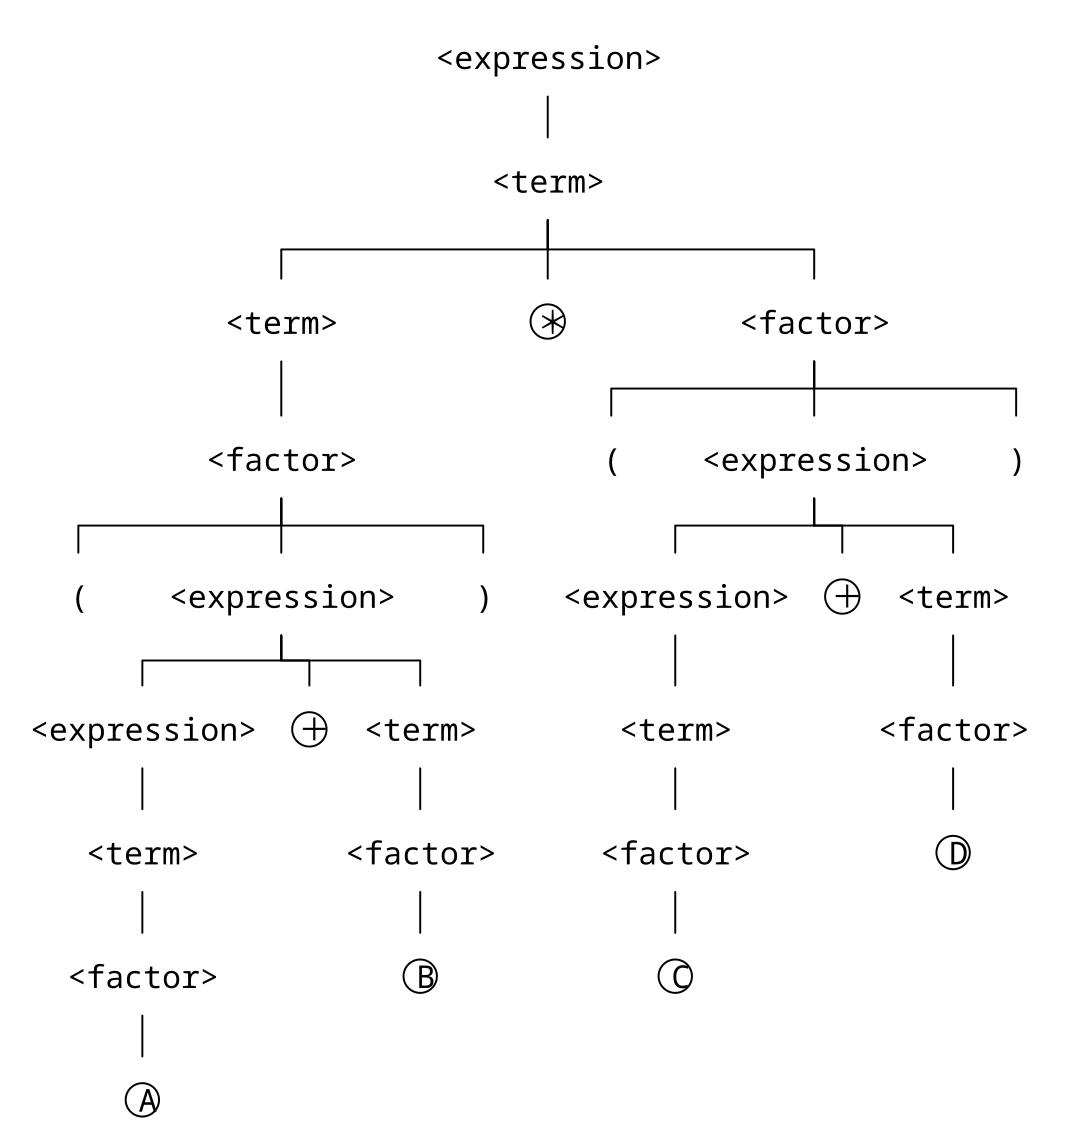
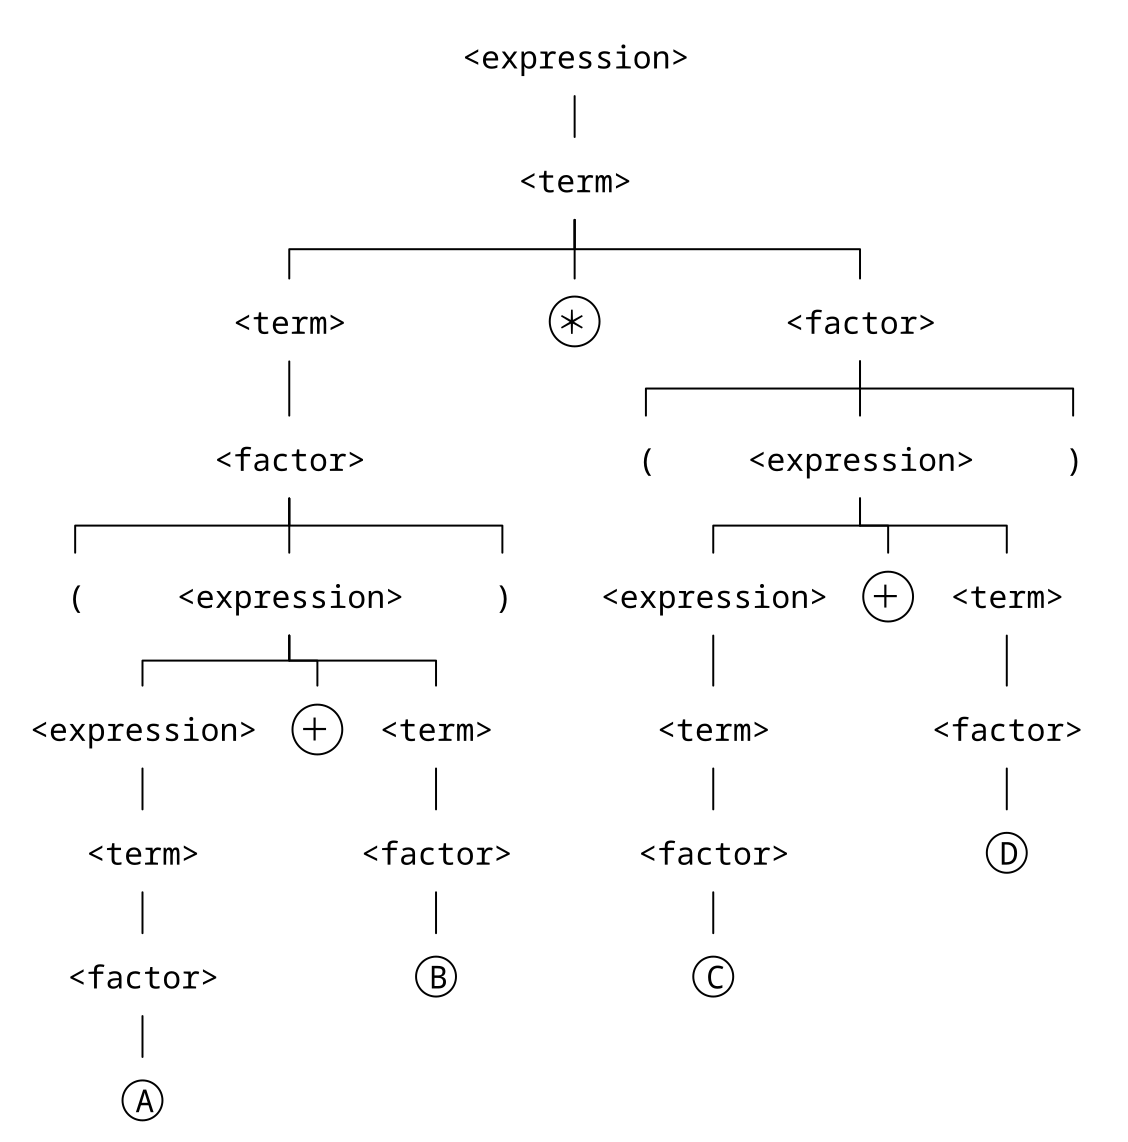
Give a circled character room for its corners
Sizing the enclosure from the ink made the boxes right but the circles too
tight: a letter that fits a square of that side pokes out of the circle drawn
inside it, which is what gallery example 023 showed — every circled letter
touching or crossing its ring. A single character in a circle now gets the
diagonal of its ink box rather than its height. Longer text sits in a stadium,
whose rounded ends already leave the corners room.

diff --git a/lib/rsyntaxtree/element.rb b/lib/rsyntaxtree/element.rb
@@ -153,7 +153,17 @@ module RSyntaxTree
               if ink.ink_height.to_f.positive?
                 above = [ink.ink_above, standard_metrics.ink_above].max
                 below = [ink.ink_height - ink.ink_above, standard_metrics.ink_height - standard_metrics.ink_above].max
-                e[:enc_height] = above + below + padding * 2
+                span = above + below
+                # A circle around a single character has to clear the corners of
+                # the glyph, not just its height: a letter that fits a square of
+                # this side pokes out of the circle drawn inside it. Take the
+                # diagonal. Longer text sits in a stadium, whose rounded ends
+                # already leave the corners room, so height alone will do.
+                if e[:decoration].include?(:circle) && e[:text].size == 1
+                  span = Math.sqrt(span**2 + width**2)
+                  above += (span - (above + below)) / 2
+                end
+                e[:enc_height] = span + padding * 2
                 e[:enc_above] = above + padding
               else
                 # Bars and other blank-texted shapes have no ink to measure.
